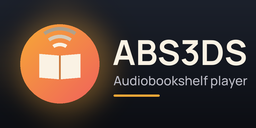
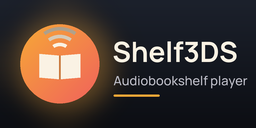
Rename to Shelf3DS; tag-versioned CI builds and releases; FBI QR code; MIT licence

Changed region(s): [[0.4375, 0.2812, 0.9688, 0.5312]]

diff --git a/src/core/abs_json.c b/src/core/abs_json.c
@@ -326,13 +326,13 @@ int abs_build_play_body(const char *device_id, const char *model, const char *ve
     cJSON *o = cJSON_CreateObject();
     cJSON *dev = cJSON_AddObjectToObject(o, "deviceInfo");
     cJSON_AddStringToObject(dev, "deviceId", device_id);
-    cJSON_AddStringToObject(dev, "clientName", "ABS3DS");
+    cJSON_AddStringToObject(dev, "clientName", "Shelf3DS");
     cJSON_AddStringToObject(dev, "clientVersion", version);
     cJSON_AddStringToObject(dev, "manufacturer", "Nintendo");
     cJSON_AddStringToObject(dev, "model", model);
     cJSON_AddBoolToObject(o, "forceDirectPlay", 1);
     cJSON_AddBoolToObject(o, "forceTranscode", 0);
-    cJSON_AddStringToObject(o, "mediaPlayer", "abs3ds");
+    cJSON_AddStringToObject(o, "mediaPlayer", "shelf3ds");
     const char *mimes[] = {"audio/mpeg", "audio/mp4", "audio/x-m4b", "audio/aac", "audio/x-m4a"};
     cJSON_AddItemToObject(o, "supportedMimeTypes", cJSON_CreateStringArray(mimes, 5));
     return emit(o, out, n);
@@ -363,11 +363,11 @@ int abs_build_local_session_body(const char *item_id, const char *device_id, dou
     cJSON_AddStringToObject(o, "id", id);
     cJSON_AddStringToObject(o, "libraryItemId", item_id);
     cJSON_AddStringToObject(o, "mediaType", "book");
-    cJSON_AddStringToObject(o, "mediaPlayer", "abs3ds");
+    cJSON_AddStringToObject(o, "mediaPlayer", "shelf3ds");
     cJSON_AddNumberToObject(o, "playMethod", 3); /* LOCAL */
     cJSON *dev = cJSON_AddObjectToObject(o, "deviceInfo");
     cJSON_AddStringToObject(dev, "deviceId", device_id);
-    cJSON_AddStringToObject(dev, "clientName", "ABS3DS");
+    cJSON_AddStringToObject(dev, "clientName", "Shelf3DS");
     cJSON_AddNumberToObject(o, "currentTime", current_time);
     cJSON_AddNumberToObject(o, "startTime", current_time);
     cJSON_AddNumberToObject(o, "duration", duration);

diff --git a/src/ui/scr_login.c b/src/ui/scr_login.c
@@ -31,7 +31,7 @@ static void login_job(void *ud) {
 }
 
 static void enter(void) {
-    g_focus = g_cfg.username[0] ? 2 : 1;
+    g_focus = !strcmp(g_cfg.server, "http://") ? 0 : g_cfg.username[0] ? 2 : 1;
     g_msg[0] = 0;
     g_result = 0;
     g_ring_y = 0;
@@ -63,7 +63,7 @@ static void do_connect(void) {
 static void edit(int field) {
     if (field == 0) {
         char buf[160];
-        if (app_keyboard("Server address", g_cfg.server, false, buf, sizeof buf)) {
+        if (app_keyboard("Server, e.g. http://192.168.1.10:13378/audiobookshelf", g_cfg.server, false, buf, sizeof buf)) {
             str_copy(g_cfg.server, sizeof g_cfg.server, buf);
             url_normalize(g_cfg.server, sizeof g_cfg.server);
             app_save_cfg();
@@ -118,7 +118,7 @@ static void draw_top(void) {
     for (int i = 6; i >= 1; i--) gfx_circle(200, 96, 40 + i * 14, col_alpha(acc, 0.025f + 0.012f * pulse));
     gfx_circle(200, 96, 46, acc);
     gfx_icon(IC_BOOK, 200, 104, 46, RGBA(250, 242, 228, 255));
-    gfx_text(F_BOLD, "ABS3DS", 200, 156, 34, COL_TEXT, AL_CENTER);
+    gfx_text(F_BOLD, "Shelf3DS", 200, 156, 34, COL_TEXT, AL_CENTER);
     gfx_text(F_UI, "Audiobookshelf for Nintendo 3DS", 200, 194, 15, COL_DIM, AL_CENTER);
 }
 
@@ -136,7 +136,8 @@ static void field(int i, IconId ic, const char *label, const char *value, bool s
         shown[n] = 0;
         value = shown;
     }
-    if (!value[0]) gfx_text(F_UI, "Tap to enter", 52, y + 19, 14, col_alpha(COL_DIM, 0.6f), AL_LEFT);
+    if (i == 0 && !strcmp(value, "http://")) value = "";
+    if (!value[0]) gfx_text_fit(F_UI, i == 0 ? "e.g. http://192.168.1.10:13378/audiobookshelf" : "Tap to enter", 52, y + 19, i == 0 ? 12 : 14, 244, col_alpha(COL_DIM, 0.6f), AL_LEFT);
     else gfx_text_fit(F_SYS, value, 52, y + 19, 15, 240, COL_TEXT, AL_LEFT);
 }
 

diff --git a/tools/make_art.py b/tools/make_art.py
@@ -39,7 +39,7 @@ def diag_gradient(w, h, a, b):
 
 
 def draw_mark(size):
-    """The ABS3DS mark: an open book whose pages turn into sound waves, on a warm disc."""
+    """The Shelf3DS mark: an open book whose pages turn into sound waves, on a warm disc."""
     s = size
     img = Image.new("RGBA", (s, s), (0, 0, 0, 0))
     disc = diag_gradient(s, s, AMBER, CORAL).convert("RGBA")
@@ -89,10 +89,10 @@ def make_banner():
     mark = draw_mark(int(H * 0.62))
     bg.alpha_composite(mark, (int(W * 0.08), int(H * 0.19)))
     d = ImageDraw.Draw(bg)
-    big = ImageFont.truetype("assets/fonts/Manrope-700.ttf", int(H * 0.27))
+    big = ImageFont.truetype("assets/fonts/Manrope-700.ttf", int(H * 0.22))
     small = ImageFont.truetype("assets/fonts/Manrope-500.ttf", int(H * 0.10))
     tx = int(W * 0.44)
-    d.text((tx, int(H * 0.22)), "ABS3DS", font=big, fill=CREAM)
+    d.text((tx, int(H * 0.25)), "Shelf3DS", font=big, fill=CREAM)
     d.text((tx + 4, int(H * 0.56)), "Audiobookshelf player", font=small, fill=(190, 190, 200))
     d.rounded_rectangle((tx + 4, int(H * 0.74), tx + 4 + int(W * 0.18), int(H * 0.755)), radius=4, fill=AMBER)
     bg.resize((256, 128), Image.LANCZOS).save("meta/banner.png")

diff --git a/tools/make_qr.py b/tools/make_qr.py
@@ -1,0 +1,22 @@
+#!/usr/bin/env python3
+"""Generates docs/qr-fbi.png: a QR code FBI can scan (Remote Install) to
+download the latest shelf3ds.cia release. Run: /usr/bin/python3 tools/make_qr.py"""
+import qrcode
+from PIL import Image, ImageDraw, ImageFont
+
+URL = "https://github.com/DarthTigerson/Shelf3DS/releases/latest/download/shelf3ds.cia"
+
+qr = qrcode.QRCode(error_correction=qrcode.constants.ERROR_CORRECT_M, box_size=8, border=3)
+qr.add_data(URL)
+qr.make(fit=True)
+code = qr.make_image(fill_color=(14, 17, 22), back_color=(255, 255, 255)).convert("RGB")
+w, h = code.size
+out = Image.new("RGB", (w, h + 56), (255, 255, 255))
+out.paste(code, (0, 0))
+d = ImageDraw.Draw(out)
+f = ImageFont.truetype("assets/fonts/Manrope-700.ttf", 22)
+s = ImageFont.truetype("assets/fonts/Manrope-500.ttf", 14)
+d.text((w // 2, h + 6), "Shelf3DS", font=f, fill=(14, 17, 22), anchor="mt")
+d.text((w // 2, h + 34), "FBI → Remote Install → Scan QR Code", font=s, fill=(92, 99, 112), anchor="mt")
+out.save("docs/qr-fbi.png")
+print("wrote docs/qr-fbi.png for", URL)

diff --git a/src/ui/app.c b/src/ui/app.c
@@ -20,7 +20,7 @@
 #include "timeline.h"
 #include "worker.h"
 
-#define DATA_DIR "sdmc:/3ds/abs3ds"
+#define DATA_DIR "sdmc:/3ds/shelf3ds"
 #define CFG_PATH DATA_DIR "/config.json"
 #define PQ_PATH DATA_DIR "/progress_queue.json"
 
@@ -467,7 +467,7 @@ bool app_keyboard(const char *hint, const char *initial, bool password, char *ou
 static void make_device_id(void) {
     if (g_cfg.device_id[0]) return;
     u64 seed = svcGetSystemTick() ^ osGetTime();
-    snprintf(g_cfg.device_id, sizeof g_cfg.device_id, "abs3ds-%08lx%08lx", (unsigned long)(seed >> 32) ^ 0x5bd1e995,
+    snprintf(g_cfg.device_id, sizeof g_cfg.device_id, "shelf3ds-%08lx%08lx", (unsigned long)(seed >> 32) ^ 0x5bd1e995,
              (unsigned long)seed);
     app_save_cfg();
 }

diff --git a/src/plat/decoder.c b/src/plat/decoder.c
@@ -14,7 +14,7 @@
 #include "mp4.h"
 #include "reader.h"
 
-#define MOOV_DIR "sdmc:/3ds/abs3ds/moov"
+#define MOOV_DIR "sdmc:/3ds/shelf3ds/moov"
 #define MOOV_MAX (48u << 20)
 
 enum { K_AAC, K_MP3, K_MP4MP3 };
@@ -74,7 +74,7 @@ static int open_remote_tables(Stream *s, const TrackSource *src, void (*auth)(ch
         uint64_t o, z;
         if (mp4_find_moov(&rr, &o, &z) != 0 || z > MOOV_MAX) return STREAM_UNSUPPORTED;
         mkdir("sdmc:/3ds", 0777);
-        mkdir("sdmc:/3ds/abs3ds", 0777);
+        mkdir("sdmc:/3ds/shelf3ds", 0777);
         mkdir(MOOV_DIR, 0777);
         if (http_fetch_range_to_file(src->url, auth, o, z, path) != 0) return STREAM_IO;
         moov_off = o;

diff --git a/src/plat/covers.c b/src/plat/covers.c
@@ -19,7 +19,7 @@
 #include "texswz.h"
 #include "worker.h"
 
-#define COVER_DIR "sdmc:/3ds/abs3ds/covers"
+#define COVER_DIR "sdmc:/3ds/shelf3ds/covers"
 #define NTHUMB 48
 #define NACCENT 160
 #define THUMB 128
@@ -179,7 +179,7 @@ void covers_init(void) {
     LightLock_Init(&g_lock);
     LightEvent_Init(&g_ev, RESET_ONESHOT);
     mkdir("sdmc:/3ds", 0777);
-    mkdir("sdmc:/3ds/abs3ds", 0777);
+    mkdir("sdmc:/3ds/shelf3ds", 0777);
     mkdir(COVER_DIR, 0777);
     g_th = thread_spawn(cover_thread, NULL, 64 * 1024, 0x30, 1);
 }

diff --git a/src/plat/abs_client.c b/src/plat/abs_client.c
@@ -233,7 +233,7 @@ int absc_fetch_item(const char *id, BookDetail *out) {
 int absc_play(const char *id, const char *model, PlaySession *out) {
     char path[128], body[1024];
     snprintf(path, sizeof path, "/api/items/%s/play", id);
-    abs_build_play_body(g_cfg->device_id, model, ABS3DS_VERSION, body, sizeof body);
+    abs_build_play_body(g_cfg->device_id, model, APP_VERSION, body, sizeof body);
     HttpResp r;
     int rc = api("POST", path, body, 4 << 20, &r);
     if (rc) return rc;

diff --git a/src/plat/downloads.h b/src/plat/downloads.h
@@ -1,9 +1,9 @@
-/* Offline downloads to sdmc:/3ds/abs3ds/books/<itemId>/ :
+/* Offline downloads to sdmc:/3ds/shelf3ds/books/<itemId>/ :
  *   meta.json   book detail (abs_parse_item format)
  *   NN<ext>     track files (".part" while incomplete)
  *   .done       marker written when every track is complete */
-#ifndef ABS3DS_DOWNLOADS_H
-#define ABS3DS_DOWNLOADS_H
+#ifndef SHELF3DS_DOWNLOADS_H
+#define SHELF3DS_DOWNLOADS_H
 #include <stdbool.h>
 #include <stddef.h>
 #include <stdint.h>

diff --git a/src/plat/downloads.c b/src/plat/downloads.c
@@ -15,7 +15,7 @@
 #include "strutil.h"
 #include "worker.h"
 
-#define BOOKS_DIR "sdmc:/3ds/abs3ds/books"
+#define BOOKS_DIR "sdmc:/3ds/shelf3ds/books"
 #define MAXDL 128
 
 typedef struct {
@@ -111,7 +111,7 @@ static void scan(void) {
 void dl_init(void) {
     LightLock_Init(&g_lock);
     mkdir("sdmc:/3ds", 0777);
-    mkdir("sdmc:/3ds/abs3ds", 0777);
+    mkdir("sdmc:/3ds/shelf3ds", 0777);
     mkdir(BOOKS_DIR, 0777);
     scan();
     g_dl = worker_create(0x31, 1, 32 * 1024);

diff --git a/src/core/config.h b/src/core/config.h
@@ -1,9 +1,9 @@
-/* Persistent settings and credentials (sdmc:/3ds/abs3ds/config.json). */
-#ifndef ABS3DS_CONFIG_H
-#define ABS3DS_CONFIG_H
+/* Persistent settings and credentials (sdmc:/3ds/shelf3ds/config.json). */
+#ifndef SHELF3DS_CONFIG_H
+#define SHELF3DS_CONFIG_H
 #include <stdbool.h>
 
-#define CFG_DEFAULT_SERVER "http://192.168.1.10:13378/audiobookshelf"
+#define CFG_DEFAULT_SERVER "http://"
 
 typedef struct {
     char server[160];

diff --git a/src/ui/scr_home.c b/src/ui/scr_home.c
@@ -109,7 +109,7 @@ static void setting_label(int i, char *name, char *val, int n) {
     default: {
         strcpy(name, "About");
         double gb = dl_total_bytes() / 1e9;
-        snprintf(val, n, "v" ABS3DS_VERSION " \xC2\xB7 %.1f GB \xC2\xB7 CPU %d%%", gb, (int)(engine_cpu_load() * 100));
+        snprintf(val, n, "v" APP_VERSION " \xC2\xB7 %.1f GB \xC2\xB7 CPU %d%%", gb, (int)(engine_cpu_load() * 100));
     }
     }
 }
